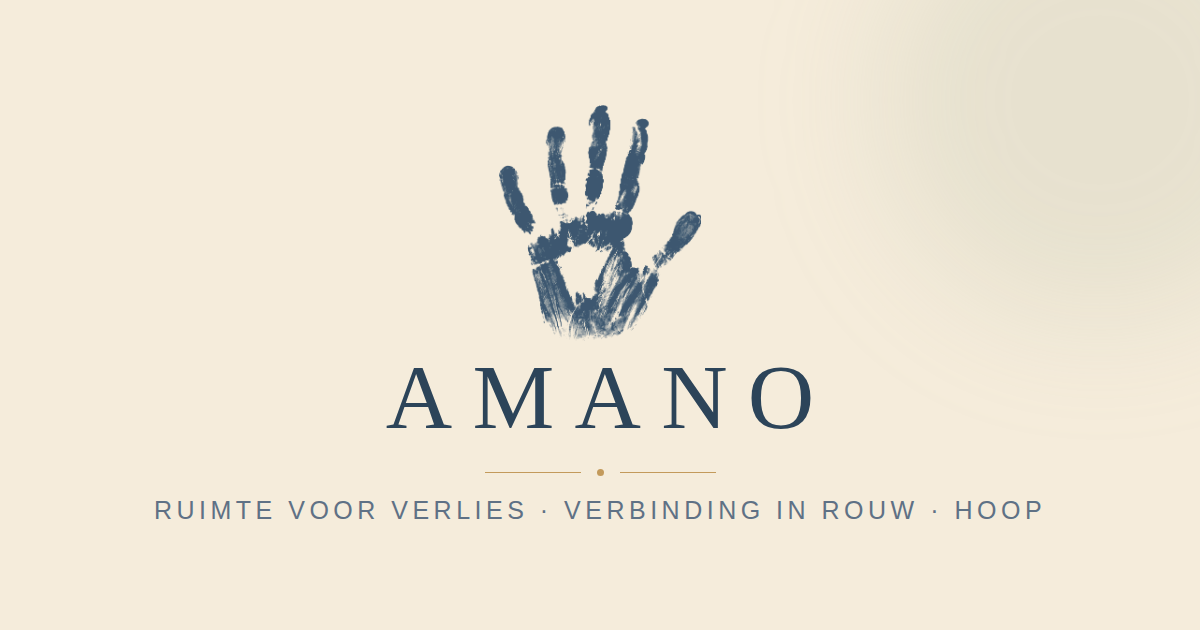
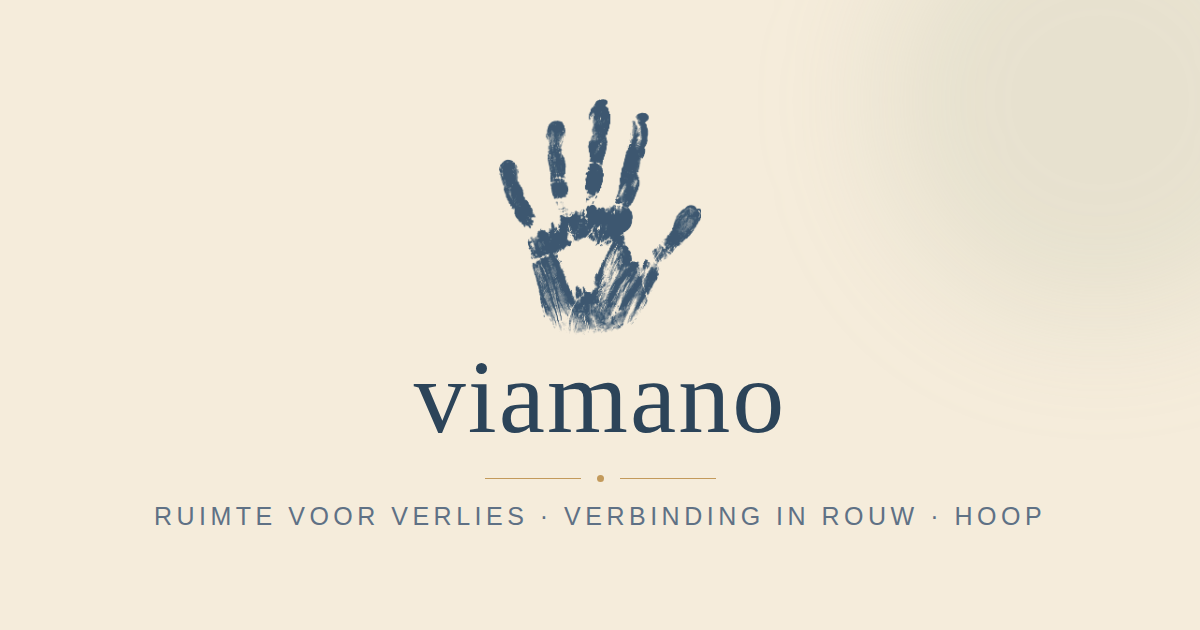
Zet merknaam definitief op VIAMANO
- Wordmark in header en footer als kleine letters "viamano", in de stijl
  van het definitieve logo
- Merknaam, domein (viamano.be) en teksten aangepast
- Social-preview-afbeelding opnieuw gegenereerd als "viamano"
- Officiële logo toegevoegd (public/logos/logo-viamano-official.png)
- Downloadnaam intake-formulier en resterende verwijzingen bijgewerkt

Claude-Session: https://claude.ai/code/session_01U4yBEoPd9ko4tbG45ornT1

diff --git a/src/lib/content.ts b/src/lib/content.ts
@@ -14,14 +14,14 @@
  */
 
 export const siteConfig = {
-  name: "Amano",
+  name: "Viamano",
   role: "Rouw- en verliescoaching",
   tagline: "Ruimte voor verlies. Verbinding in rouw. Hoop.",
-  domain: "amano.be",
-  url: "https://amano.be",
+  domain: "viamano.be",
+  url: "https://viamano.be",
 
   // PLACEHOLDER — vervang door Karens echte gegevens (nog niet ontvangen)
-  email: "hallo@amano.be",
+  email: "hallo@viamano.be",
   phone: "+32 (0)4XX XX XX XX",
   region: "Regio [plaats], België",
 
@@ -77,7 +77,7 @@ export const home = {
     title: "Je hoeft er niet alleen doorheen te gaan",
     paragraphs: [
       "Rouw is veel breder dan het overlijden van een dierbare. Ook het verlies van gezondheid, een relatie, werk, een kinderwens, toekomstplannen of andere ingrijpende veranderingen kan je diep raken. Elk verlies verdient erkenning.",
-      "Bij Amano vind je een warme, veilige plek waar alles er mag zijn: verdriet, stilte, boosheid, onzekerheid, liefde en hoop. Mijn wens is dat je je gehoord voelt en stap voor stap opnieuw vertrouwen vindt in het leven — zonder te vergeten wat of wie voor jou waardevol is geweest.",
+      "Bij Viamano vind je een warme, veilige plek waar alles er mag zijn: verdriet, stilte, boosheid, onzekerheid, liefde en hoop. Mijn wens is dat je je gehoord voelt en stap voor stap opnieuw vertrouwen vindt in het leven — zonder te vergeten wat of wie voor jou waardevol is geweest.",
     ],
   },
 
@@ -91,7 +91,7 @@ export const home = {
   aboutTeaser: {
     eyebrow: "Over mij",
     title: "Ik spreek uit ervaring",
-    text: "Ik ben Karen Dierickx. Na het overlijden van mijn echtgenoot ontdekte ik hoe ingrijpend verlies je leven kan veranderen — niet alleen omdat je iemand mist, maar ook omdat je jezelf soms lijkt kwijt te raken. Die ervaring, samen met mijn opleiding in het begeleiden van mensen, vormt vandaag de basis van Amano.",
+    text: "Ik ben Karen Dierickx. Na het overlijden van mijn echtgenoot ontdekte ik hoe ingrijpend verlies je leven kan veranderen — niet alleen omdat je iemand mist, maar ook omdat je jezelf soms lijkt kwijt te raken. Die ervaring, samen met mijn opleiding in het begeleiden van mensen, vormt vandaag de basis van Viamano.",
     cta: { label: "Lees mijn verhaal", href: "/over-mij" },
   },
 
@@ -152,13 +152,13 @@ export const about = {
   eyebrow: "Over mij",
   title: "Over Karen",
   intro:
-    "Ik ben Karen Dierickx, rouwcoach bij Amano. Uit eigen ervaring en vanuit mijn opleiding begeleid ik mensen bij verlies in al zijn vormen.",
+    "Ik ben Karen Dierickx, rouwcoach bij Viamano. Uit eigen ervaring en vanuit mijn opleiding begeleid ik mensen bij verlies in al zijn vormen.",
   paragraphs: [
     "Ik ben Karen Dierickx. Ik volgde een opleiding in het begeleiden en ondersteunen van mensen tijdens ingrijpende levensgebeurtenissen en verlies. Mijn grootste leerschool was echter mijn eigen leven.",
     "Toen mijn echtgenoot overleed, veranderde mijn wereld volledig. Ik weet hoe eenzaam verlies kan voelen, hoeveel goedbedoelde adviezen soms pijn doen, en hoe belangrijk het is dat iemand gewoon naast je blijft staan.",
     "Door mijn persoonlijke ervaring besef ik dat verlies vele gezichten heeft. Niet alleen het overlijden van een dierbare, maar ook een echtscheiding, een ernstige ziekte, het verlies van werk, een onvervulde kinderwens of andere ingrijpende veranderingen kunnen je fundament doen wankelen.",
     "Ik verloor mijn echtgenoot na een relatie van eenentwintig jaar. Dat verlies confronteerde me niet alleen met intens verdriet, maar ook met de zoektocht naar een nieuw leven waarin liefde en gemis naast elkaar mogen bestaan.",
-    "Die combinatie van professionele vorming en persoonlijke ervaring vormt vandaag de basis van Amano.",
+    "Die combinatie van professionele vorming en persoonlijke ervaring vormt vandaag de basis van Viamano.",
   ],
   values: [
     {

diff --git a/src/app/globals.css b/src/app/globals.css
@@ -7,7 +7,7 @@
    ───────────────────────────────────────────────────────────────────────── */
 @theme {
   /* ───────────────────────────────────────────────────────────────────────
-     MERKKLEUREN — afgeleid van het Amano-logo (blauwe handafdruk).
+     MERKKLEUREN — afgeleid van het Viamano-logo (blauwe handafdruk).
        navy   = diep blauw van de handafdruk & letters
        crème  = warme, zachte achtergrond
        slate  = blauwgrijze tint (donkere vlakken)

diff --git a/src/lib/tokens.ts b/src/lib/tokens.ts
@@ -1,11 +1,11 @@
 /**
- * Design tokens — het kleuren- en typografiepalet van Amano.
+ * Design tokens — het kleuren- en typografiepalet van Viamano.
  *
  * De échte waarden leven in `src/app/globals.css` (Tailwind v4 `@theme`),
  * zodat ze als utility-klassen beschikbaar zijn (bv. `bg-cream`, `text-sage`).
  * Dit bestand documenteert ze op één plek, zodat je snel ziet wat er is.
  *
- * Sfeer: afgeleid van het Amano-logo — diep navy-blauw en warme crème,
+ * Sfeer: afgeleid van het Viamano-logo — diep navy-blauw en warme crème,
  * met een blauwgrijze (slate) tint en een fijn goud accent.
  */
 

diff --git a/src/components/SiteHeader.tsx b/src/components/SiteHeader.tsx
@@ -29,7 +29,7 @@ export function SiteHeader() {
             className="h-11 w-auto"
           />
           <span className="flex flex-col leading-none">
-            <span className="font-serif text-2xl uppercase tracking-[0.3em] text-ink">
+            <span className="font-serif text-3xl lowercase tracking-[0.02em] text-ink">
               {siteConfig.name}
             </span>
             <span className="mt-1 flex items-center gap-2 text-[10px] uppercase tracking-[0.22em] text-sage-deep">

diff --git a/src/components/SiteFooter.tsx b/src/components/SiteFooter.tsx
@@ -19,7 +19,7 @@ export function SiteFooter() {
               height={504}
               className="mb-4 h-14 w-auto"
             />
-            <p className="font-serif text-2xl uppercase tracking-[0.3em] text-cream">
+            <p className="font-serif text-3xl lowercase tracking-[0.02em] text-cream">
               {siteConfig.name}
             </p>
             <div

diff --git a/src/components/IntakeForm.tsx b/src/components/IntakeForm.tsx
@@ -69,7 +69,7 @@ export function IntakeForm() {
     const url = URL.createObjectURL(blob);
     const a = document.createElement("a");
     a.href = url;
-    a.download = "Amano-vragenlijst-antwoorden.txt";
+    a.download = "Viamano-vragenlijst-antwoorden.txt";
     document.body.appendChild(a);
     a.click();
     document.body.removeChild(a);

diff --git a/src/lib/intake.ts b/src/lib/intake.ts
@@ -130,7 +130,7 @@ export const intakeSections: IntakeSection[] = [
       {
         id: "s5q4",
         label: "Heb je al een domeinnaam (webadres), of kiezen we die samen?",
-        hint: "bv. amano.be",
+        hint: "bv. viamano.be",
         type: "text",
       },
       {
